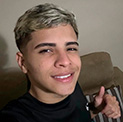
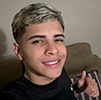
Atualização do README

diff --git a/README.md b/README.md
@@ -206,7 +206,7 @@ ALTER TABLE `Animal`
   <tr>
     <td align="center">
       <a href="#">
-        <img src="https://avatars.githubusercontent.com/u/61896274?v=4" width="100px;" alt="Carlos Antonio"/><br>
+        <img src="Front-and/img/bolsonaro.jpg" width="100px;" alt="Carlos Antonio"/><br>
         <sub>
           <b>Carlos Antonio</b>
         </sub>
